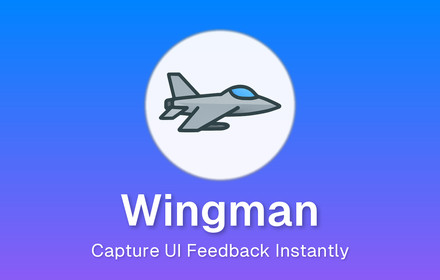
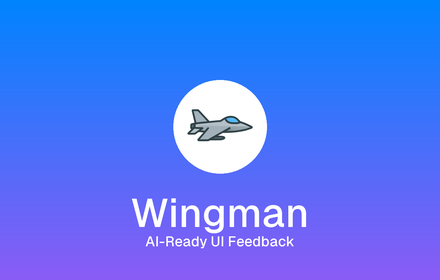
Remove Open Source section from privacy policy

Changed region(s): [[0.325, 0.0857, 0.6795, 0.6571], [0.2068, 0.6857, 0.7977, 0.9429]]

diff --git a/packages/extension/wxt.config.ts b/packages/extension/wxt.config.ts
@@ -35,8 +35,15 @@ export default defineConfig({
         "downloads",
         "downloads.ui"
       ],
-      host_permissions: [
+      host_permissions: isProd ? [
+        // Production: Chrome Web Store compliant (no port wildcards)
+        "http://localhost/*",
+        "http://127.0.0.1/*",
+        "https://*/*"
+      ] : [
+        // Development: Support all localhost ports
         "http://localhost:*/*",
+        "http://127.0.0.1:*/*",
         "https://*/*"
       ],
       web_accessible_resources: [
@@ -103,7 +110,7 @@ export default defineConfig({
     return {
       ...baseManifest,
       name: "Wingman",
-      description: "Wingman Chrome Extension - Lightweight UX feedback assistant for web applications",
+      description: "Point. Click. Prompt. Fix. Identify problems in your web application and generate AI-ready prompts to fix them.",
       icons: {
         "16": "icons/icon16.png",
         "48": "icons/icon48.png",

diff --git a/packages/webapp/src/pages/Privacy.tsx b/packages/webapp/src/pages/Privacy.tsx
@@ -203,20 +203,6 @@ export default function Privacy() {
 
             <Divider />
 
-            {/* Open Source */}
-            <Box>
-              <Box display="flex" alignItems="center" gap={1} mb={2}>
-                <Typography variant="h5" fontWeight="600">
-                  💻 Open Source Transparency
-                </Typography>
-              </Box>
-              <Typography variant="body1" color="text.secondary" paragraph>
-                Wingman is open source software. You can review our code to verify our privacy practices.
-              </Typography>
-            </Box>
-
-            <Divider />
-
             {/* Contact */}
             <Box>
               <Typography variant="h5" gutterBottom fontWeight="600">

diff --git a/promo/STORE_LISTING.md b/promo/STORE_LISTING.md
@@ -37,7 +37,7 @@ Capture AI ready UI feedback with screenshots, element selection, and rich conte
 ## DETAILED DESCRIPTION
 
 ```
-Wingman is a lightweight UX feedback assistant that helps designers, developers, and product teams capture and share UI feedback effortlessly.
+Wingman lets you identify problems in your web application by pointing, clicking, and providing feedback - then automatically generates an AI-ready prompt that will fix the issue.
 
 🎯 One-Click Capture
 Press ⌘⇧K (Mac) or Ctrl+Shift+K (Windows/Linux) to instantly activate feedback mode. Click any element on the page to select it and add your feedback.
@@ -149,7 +149,7 @@ Required to persist user preferences including output mode selection and relay s
 Required to allow users to optionally download captured screenshots to their computer.
 ```
 
-**host*permissions (http://localhost:*/\_)**
+**host_permissions (http://localhost/\*)**
 
 ```
 Required for integration with local development servers to send feedback directly to localhost endpoints.
